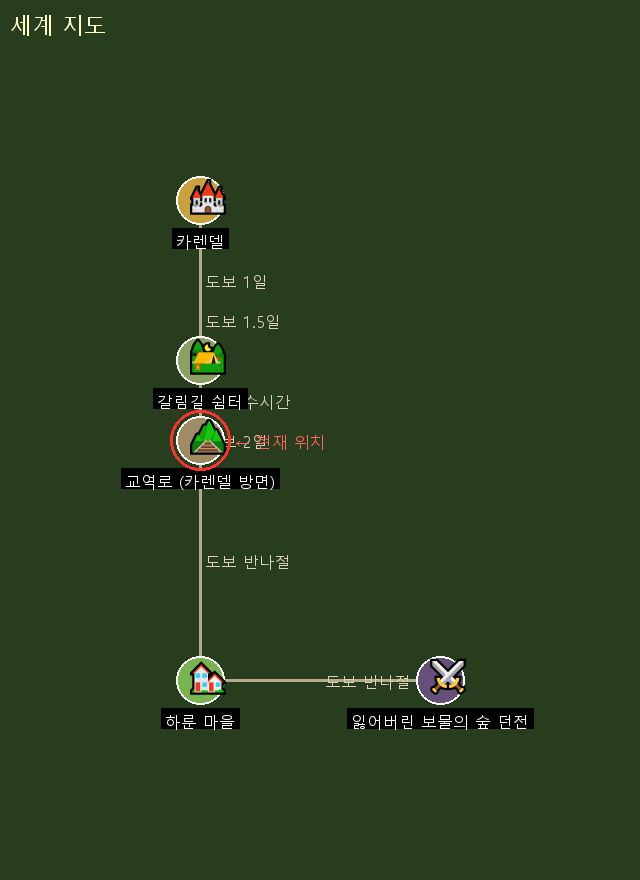
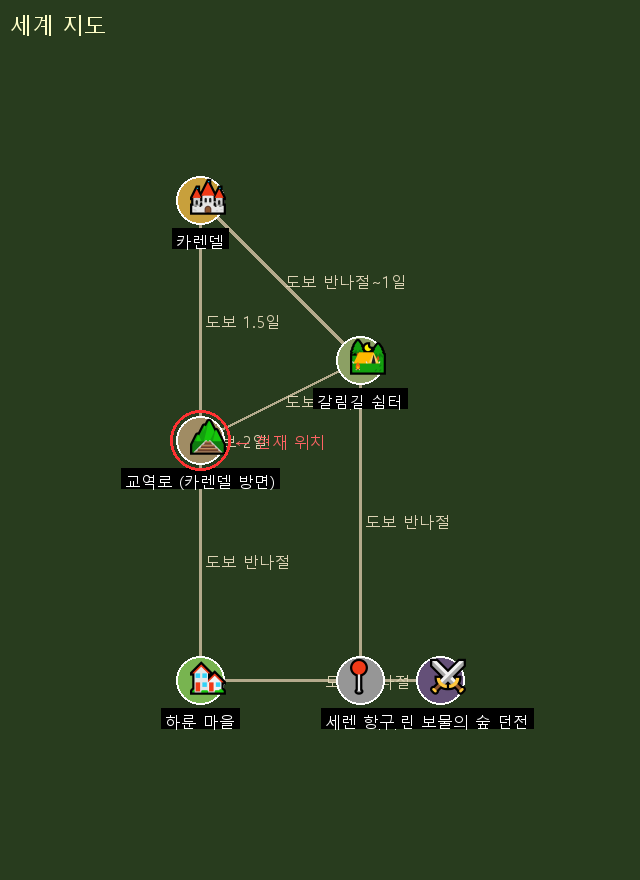
feat: 월드맵 자동생성/UI 버튼 + 정적웹 일러스트 동기화 수정
- 월드맵: 서버 시작/gm-update 시 자동 생성, /api/world-map API 추가
- 웹 UI: 게임 맵 패널에 월드맵 버튼 추가 (클릭 시 오버레이)
- 정적웹: illustration_state가 sd_generator 실시간 scene_state 참조하도록 수정

diff --git a/docs/index.html b/docs/index.html
@@ -507,6 +507,21 @@
             cursor: pointer;
         }
         .sidebar-map img:hover { border-color: #e94560; }
+        .worldmap-btn {
+            font-size: 0.7em;
+            background: #1a1a2e;
+            border: 1px solid #555;
+            color: #aaa;
+            padding: 1px 8px;
+            border-radius: 6px;
+            cursor: pointer;
+            float: right;
+        }
+        .worldmap-btn:hover {
+            background: #0f3460;
+            color: #ffd700;
+            border-color: #ffd700;
+        }
         /* Map zoom overlay — 적당한 크기 */
         .map-overlay {
             display: none;
@@ -752,7 +767,7 @@
 
         <div class="sidebar">
             <div class="panel sidebar-map">
-                <h3>게임 맵</h3>
+                <h3>게임 맵 <button class="worldmap-btn" onclick="openWorldMap()">월드맵</button></h3>
                 <img id="game-map" src="" alt="Game Map" onclick="openMapZoom()">
                 <div id="map-legend" class="legend"></div>
             </div>
@@ -1450,6 +1465,10 @@
         function openMapZoom() {
             document.getElementById('map-overlay').classList.add('active');
             document.getElementById('map-zoom-img').src = STATIC_PREFIX + 'map.png?t=' + Date.now();
+        }
+        function openWorldMap() {
+            document.getElementById('map-overlay').classList.add('active');
+            document.getElementById('map-zoom-img').src = STATIC_PREFIX + 'world_map.png?t=' + Date.now();
         }
 
         function openPortraitZoom(src) {

diff --git a/docs/templates/index.html b/docs/templates/index.html
@@ -507,6 +507,21 @@
             cursor: pointer;
         }
         .sidebar-map img:hover { border-color: #e94560; }
+        .worldmap-btn {
+            font-size: 0.7em;
+            background: #1a1a2e;
+            border: 1px solid #555;
+            color: #aaa;
+            padding: 1px 8px;
+            border-radius: 6px;
+            cursor: pointer;
+            float: right;
+        }
+        .worldmap-btn:hover {
+            background: #0f3460;
+            color: #ffd700;
+            border-color: #ffd700;
+        }
         /* Map zoom overlay — 적당한 크기 */
         .map-overlay {
             display: none;
@@ -752,7 +767,7 @@
 
         <div class="sidebar">
             <div class="panel sidebar-map">
-                <h3>게임 맵</h3>
+                <h3>게임 맵 <button class="worldmap-btn" onclick="openWorldMap()">월드맵</button></h3>
                 <img id="game-map" src="" alt="Game Map" onclick="openMapZoom()">
                 <div id="map-legend" class="legend"></div>
             </div>
@@ -1450,6 +1465,10 @@
         function openMapZoom() {
             document.getElementById('map-overlay').classList.add('active');
             document.getElementById('map-zoom-img').src = STATIC_PREFIX + 'map.png?t=' + Date.now();
+        }
+        function openWorldMap() {
+            document.getElementById('map-overlay').classList.add('active');
+            document.getElementById('map-zoom-img').src = STATIC_PREFIX + 'world_map.png?t=' + Date.now();
         }
 
         function openPortraitZoom(src) {

diff --git a/templates/index.html b/templates/index.html
@@ -507,6 +507,21 @@
             cursor: pointer;
         }
         .sidebar-map img:hover { border-color: #e94560; }
+        .worldmap-btn {
+            font-size: 0.7em;
+            background: #1a1a2e;
+            border: 1px solid #555;
+            color: #aaa;
+            padding: 1px 8px;
+            border-radius: 6px;
+            cursor: pointer;
+            float: right;
+        }
+        .worldmap-btn:hover {
+            background: #0f3460;
+            color: #ffd700;
+            border-color: #ffd700;
+        }
         /* Map zoom overlay — 적당한 크기 */
         .map-overlay {
             display: none;
@@ -752,7 +767,7 @@
 
         <div class="sidebar">
             <div class="panel sidebar-map">
-                <h3>게임 맵</h3>
+                <h3>게임 맵 <button class="worldmap-btn" onclick="openWorldMap()">월드맵</button></h3>
                 <img id="game-map" src="" alt="Game Map" onclick="openMapZoom()">
                 <div id="map-legend" class="legend"></div>
             </div>
@@ -1450,6 +1465,10 @@
         function openMapZoom() {
             document.getElementById('map-overlay').classList.add('active');
             document.getElementById('map-zoom-img').src = STATIC_PREFIX + 'map.png?t=' + Date.now();
+        }
+        function openWorldMap() {
+            document.getElementById('map-overlay').classList.add('active');
+            document.getElementById('map-zoom-img').src = STATIC_PREFIX + 'world_map.png?t=' + Date.now();
         }
 
         function openPortraitZoom(src) {

diff --git a/core/save_manager.py b/core/save_manager.py
@@ -333,7 +333,7 @@ class SaveManager:
             os.path.join(docs_dir, "index.html"))
 
     def _build_illustration_state(self, game_state, docs_dir):
-        """정적 웹용 illustration_state.json 생성"""
+        """정적 웹용 illustration_state.json 생성 — 동적 웹의 scene_state를 반영"""
         try:
             chapter = game_state.get("game_info", {}).get("current_chapter", 1)
             chapter_bgs = {
@@ -344,13 +344,26 @@ class SaveManager:
                 3: {"sd": "static/illustrations/sd/ch3_treasure.png",
                     "pixel": "static/illustrations/pixel/treasure.png"},
             }
+
+            # sd_generator의 실시간 scene_state 참조 (동적 웹과 동일한 소스)
             background = None
-            sd_bgs = sorted(
-                glob.glob(os.path.join(
-                    BASE_DIR, "static", "illustrations", "sd", "background_*")),
-                key=os.path.getmtime, reverse=True)
-            if sd_bgs:
-                background = "static/illustrations/sd/" + os.path.basename(sd_bgs[0])
+            live_layers = []
+            try:
+                from core.sd_generator import get_scene_state
+                scene = get_scene_state()
+                if scene.get("background"):
+                    bg = scene["background"]
+                    # /static/ 접두사 제거 (정적 웹은 상대경로 사용)
+                    background = bg.lstrip("/")
+                live_layers = scene.get("layers", [])
+            except Exception:
+                # sd_generator를 import할 수 없는 경우 (CLI 실행 등) 폴백
+                sd_bgs = sorted(
+                    glob.glob(os.path.join(
+                        BASE_DIR, "static", "illustrations", "sd", "background_*")),
+                    key=os.path.getmtime, reverse=True)
+                if sd_bgs:
+                    background = "static/illustrations/sd/" + os.path.basename(sd_bgs[0])
 
             ill_state = {
                 "background": background,
@@ -363,65 +376,79 @@ class SaveManager:
                 "current_chapter": chapter,
             }
 
-            # NPC 레이어 추가 (초상화 파일이 존재하는 NPC만)
-            player1 = next((p for p in game_state.get("players", []) if p.get("id") == 1), None)
-            p1_x = player1["position"][0] if player1 else 0
-            p1_y = player1["position"][1] if player1 else 0
-            current_loc = game_state.get("current_location", "")
+            # sd_generator에서 가져온 라이브 레이어가 있으면 우선 사용
+            if live_layers:
+                for layer in live_layers:
+                    img_path = layer.get("image", "")
+                    ill_state["layers"].append({
+                        "type": layer.get("type", "portrait"),
+                        "image": img_path.lstrip("/"),
+                        "position": layer.get("position", "center"),
+                        "name": layer.get("name", ""),
+                        "distance": layer.get("distance", 0),
+                        "size_class": layer.get("size_class", "d2"),
+                    })
 
-            npcs_to_add = []
-            for npc in game_state.get("npcs", []):
-                if npc.get("status") not in ("alive", "idle", "active"):
-                    continue
-                npc_loc = npc.get("location", "")
-                if current_loc and npc_loc and npc_loc != current_loc:
-                    continue
-                npc_name = npc.get("name", "")
-                portrait_path = None
-                for ext in [".webp", ".png"]:
-                    for prefix in ["portrait_", ""]:
-                        check = os.path.join(BASE_DIR, "static", "portraits", "sd", f"{prefix}{npc_name}{ext}")
-                        if os.path.exists(check):
-                            portrait_path = f"static/portraits/sd/{prefix}{npc_name}{ext}"
+            if not live_layers:
+                # NPC 레이어 추가 (초상화 파일이 존재하는 NPC만)
+                player1 = next((p for p in game_state.get("players", []) if p.get("id") == 1), None)
+                p1_x = player1["position"][0] if player1 else 0
+                p1_y = player1["position"][1] if player1 else 0
+                current_loc = game_state.get("current_location", "")
+
+                npcs_to_add = []
+                for npc in game_state.get("npcs", []):
+                    if npc.get("status") not in ("alive", "idle", "active"):
+                        continue
+                    npc_loc = npc.get("location", "")
+                    if current_loc and npc_loc and npc_loc != current_loc:
+                        continue
+                    npc_name = npc.get("name", "")
+                    portrait_path = None
+                    for ext in [".webp", ".png"]:
+                        for prefix in ["portrait_", ""]:
+                            check = os.path.join(BASE_DIR, "static", "portraits", "sd", f"{prefix}{npc_name}{ext}")
+                            if os.path.exists(check):
+                                portrait_path = f"static/portraits/sd/{prefix}{npc_name}{ext}"
+                                break
+                        if portrait_path:
                             break
-                    if portrait_path:
-                        break
-                if not portrait_path:
-                    continue
-                npc_pos = npc.get("position", [0, 0])
-                sort_key = -(npc_pos[0] - p1_x)
-                distance = max(abs(npc_pos[0] - p1_x), abs(npc_pos[1] - p1_y))
-                if distance <= 1:
-                    size_class = "d1"
-                elif distance <= 2:
-                    size_class = "d2"
-                elif distance <= 4:
-                    size_class = "d3"
-                else:
-                    size_class = "d4"
-                npcs_to_add.append((sort_key, npc_name, portrait_path, distance, size_class))
+                    if not portrait_path:
+                        continue
+                    npc_pos = npc.get("position", [0, 0])
+                    sort_key = -(npc_pos[0] - p1_x)
+                    distance = max(abs(npc_pos[0] - p1_x), abs(npc_pos[1] - p1_y))
+                    if distance <= 1:
+                        size_class = "d1"
+                    elif distance <= 2:
+                        size_class = "d2"
+                    elif distance <= 4:
+                        size_class = "d3"
+                    else:
+                        size_class = "d4"
+                    npcs_to_add.append((sort_key, npc_name, portrait_path, distance, size_class))
 
-            npcs_to_add.sort(key=lambda x: x[0])
-            for idx, (sort_key, name, path, dist, size) in enumerate(npcs_to_add[:4]):
-                if sort_key > 1:
-                    pos_name = "far-right"
-                elif sort_key == 1:
-                    pos_name = "right"
-                elif sort_key == 0:
-                    pos_name = "center"
-                elif sort_key == -1:
-                    pos_name = "left"
-                else:
-                    pos_name = "far-left"
+                npcs_to_add.sort(key=lambda x: x[0])
+                for idx, (sort_key, name, path, dist, size) in enumerate(npcs_to_add[:4]):
+                    if sort_key > 1:
+                        pos_name = "far-right"
+                    elif sort_key == 1:
+                        pos_name = "right"
+                    elif sort_key == 0:
+                        pos_name = "center"
+                    elif sort_key == -1:
+                        pos_name = "left"
+                    else:
+                        pos_name = "far-left"
 
-                ill_state["layers"].append({
-                    "type": "portrait",
-                    "image": path,
-                    "position": pos_name,
-                    "name": name,
-                    "distance": dist,
-                    "size_class": size,
-                })
+                    ill_state["layers"].append({
+                        "type": "portrait",
+                        "image": path,
+                        "position": pos_name,
+                        "name": name,
+                        "distance": dist,
+                        "size_class": size,
+                    })
 
             with open(os.path.join(docs_dir, "illustration_state.json"),
                        "w", encoding="utf-8") as f:

diff --git a/app.py b/app.py
@@ -166,6 +166,13 @@ def restore_scene():
         pass
 
 
+# Generate world map on startup
+try:
+    from core.map_generator import generate_world_map
+    generate_world_map()
+except Exception:
+    pass
+
 # Generate initial map and restore scene on startup
 update_map_image()
 restore_scene()
@@ -354,6 +361,13 @@ def gm_update():
     gm._log_to_tracker("state", "game_state 저장 + 엔티티 동기화")
     update_map_image()
 
+    # 월드맵 갱신 (세계관 변경 반영)
+    try:
+        from core.map_generator import generate_world_map
+        generate_world_map()
+    except Exception:
+        pass
+
     # Handle illustration request
     illustration_req = data.get("illustration")
     ill_result = None
@@ -409,6 +423,18 @@ def gm_update():
     return jsonify({"success": True, "event": event or {}, "turn": state["turn_count"],
                      "illustration": ill_result, "mechanics": mechanics_results,
                      "agent_warnings": agent_warnings})
+
+
+@app.route("/api/world-map", methods=["POST"])
+def regenerate_world_map():
+    try:
+        from core.map_generator import generate_world_map
+        path = generate_world_map()
+        if path:
+            return jsonify({"success": True, "path": "/static/world_map.png"})
+        return jsonify({"success": False, "reason": "No locations with world_pos"})
+    except Exception as e:
+        return jsonify({"success": False, "reason": str(e)})
 
 
 @app.route("/api/illustration", methods=["GET"])
